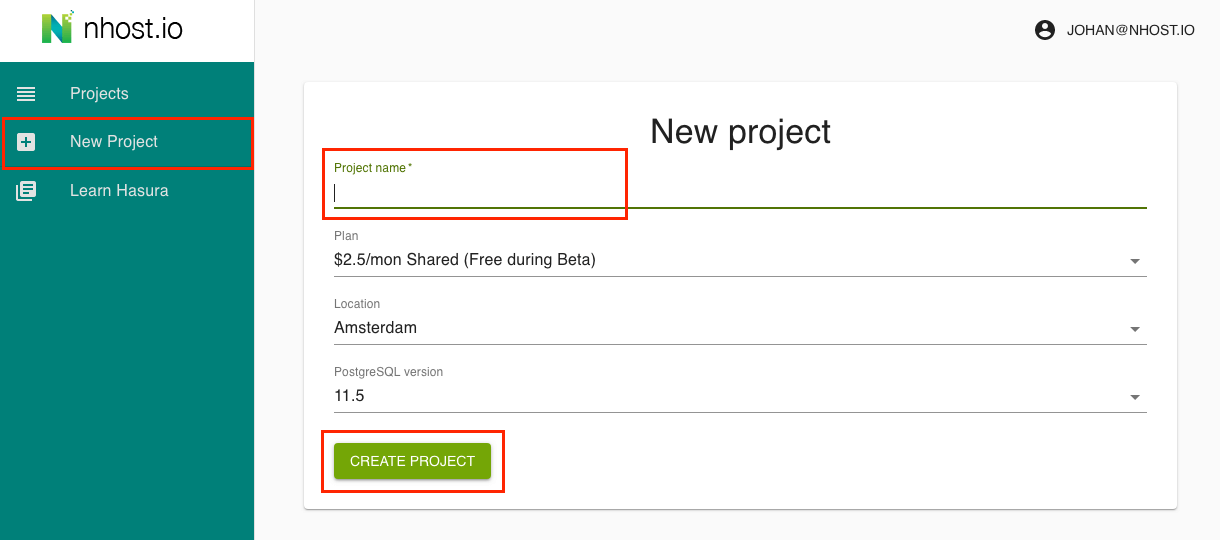
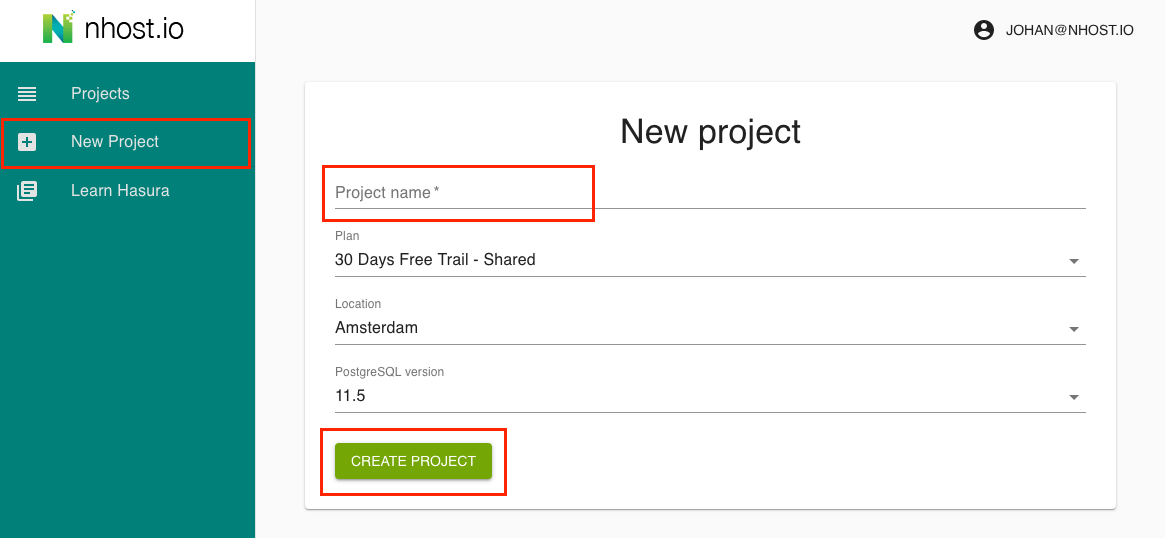
updated img and text

diff --git a/docs/graphql/manual/getting-started/nhost-simple.rst b/docs/graphql/manual/getting-started/nhost-simple.rst
@@ -6,19 +6,13 @@ Quickstart with Nhost
   :depth: 1
   :local:
 
-
-Page for Nhost free trail.
-
-- PostgreSQL
-- Hasura GraphQL Engline
-- Authentication
-- Storage
-
-This guide will help you get Hasura GraphQL engine and Postgres running on `Nhost's 30 days free trail <https://nhost.io/pricing#free>`_.
+This guide will help you get Hasura GraphQL Engine and Postgres running.
 It is the easiest and fastest way of trying Hasura out.
 
-If you'd like to link this to an existing database, please head to this guide instead:
-:doc:`Using an existing database on Heroku <../deployment/heroku/using-existing-heroku-database>`.
+Nhost also gives you authentication and storage to your project.
+
+.. note::
+   Want to try Hasura with an existing database? Go to :doc:`Getting started with an existing database <./using-existing-database>`.
 
 Deploy to Nhost
 ----------------

diff --git a/docs/graphql/manual/getting-started/index.rst b/docs/graphql/manual/getting-started/index.rst
@@ -19,7 +19,7 @@ To use the Hasura GraphQL engine, you need to:
 Get started from scratch
 ------------------------
 
-- :doc:`Using Nhost <nhost-simple>` **(recommended)**: Get a Hasura GraphQL engine, Postgres with automatic support for authentication and storage.
+- :doc:`Using Nhost <nhost-simple>` **(recommended)**: Get started with a free project with Hasura GraphQL engine, Postgres with automatic support for authentication and storage.
 - :doc:`Using Heroku <heroku-simple>` : Get started in under 60 seconds with no setup required to
   host the Hasura GraphQL engine and Postgres on Heroku's free tier.
 - :doc:`Using Docker <docker-simple>`: Run a **local development** setup that sets up both the Hasura GraphQL

diff --git a/docs/graphql/manual/getting-started/heroku-simple.rst b/docs/graphql/manual/getting-started/heroku-simple.rst
@@ -7,7 +7,6 @@ Quickstart with Heroku
   :local:
 
 This guide will help you get Hasura GraphQL engine and Postgres running on `Heroku's free tier <https://www.heroku.com/free>`_.
-It is the easiest and fastest way of trying Hasura out.
 
 If you'd like to link this to an existing database, please head to this guide instead:
 :doc:`Using an existing database on Heroku <../deployment/heroku/using-existing-heroku-database>`.
